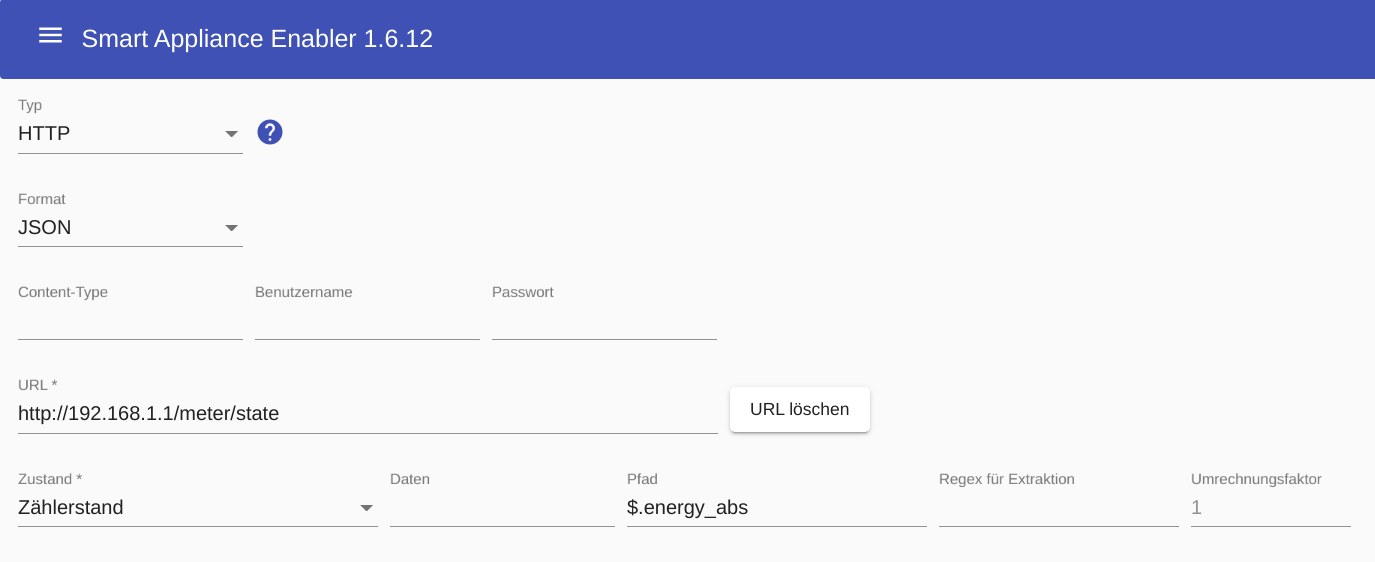
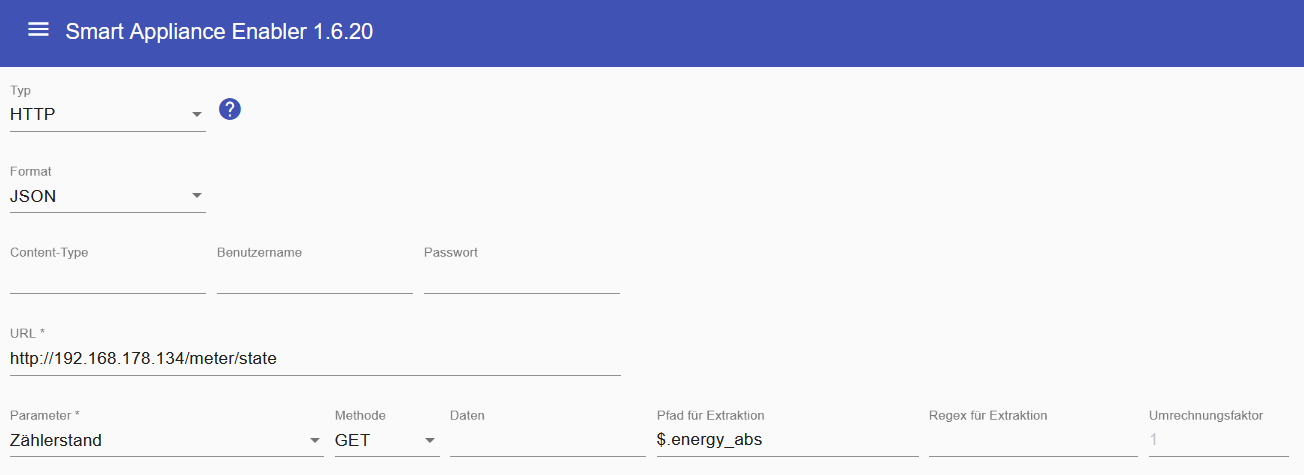
update WarpCharger_DE.md pics

diff --git a/doc/WarpCharger_DE.md b/doc/WarpCharger_DE.md
@@ -10,8 +10,8 @@ Bei Verwendung der Wallbox WARP (2) Pro ist kein separater Stromzähler erforder
 
 Für die Konfiguration sollte die Vorlage `WARP Charger` verwendet werden - dadurch werden alle Felder korrekt ausgefüllt. Lediglich die IP-Adresse bzw. der Hostname in den URL-Feldern muss auf die des WARP-Chargers angepasst werden.
 
-![grafik](https://user-images.githubusercontent.com/107432815/174375336-fe22eec7-c70e-4260-8e8d-73f7f040cf48.png)
-![grafik](https://user-images.githubusercontent.com/107432815/174376888-52842514-eff7-4a7a-81e3-d1070ac4804b.png)
+![Konfiguration des WARP charger als Wallbox - Bild 1](../pics/fe/EVChargerWarpCharger_1.png)
+![Konfiguration des WARP charger als Wallbox - Bild 2](../pics/fe/EVChargerWarpCharger_2.png)
 
 
 ### Zähler
@@ -24,5 +24,5 @@ Das Feld `Pfad für Extraktion` muss den Wert `$.energy_abs` enthalten, damit de
 
 Als Zustand ist `Zählerwert` zu wählen.
 
-![grafik](https://user-images.githubusercontent.com/107432815/174379819-869d86f2-2e55-449a-b0fe-8da7c803e1a5.png)
+![Konfiguration des WARP charger als Zähler](../pics/fe/EVChargerWarpChargerMeter.png)
 
